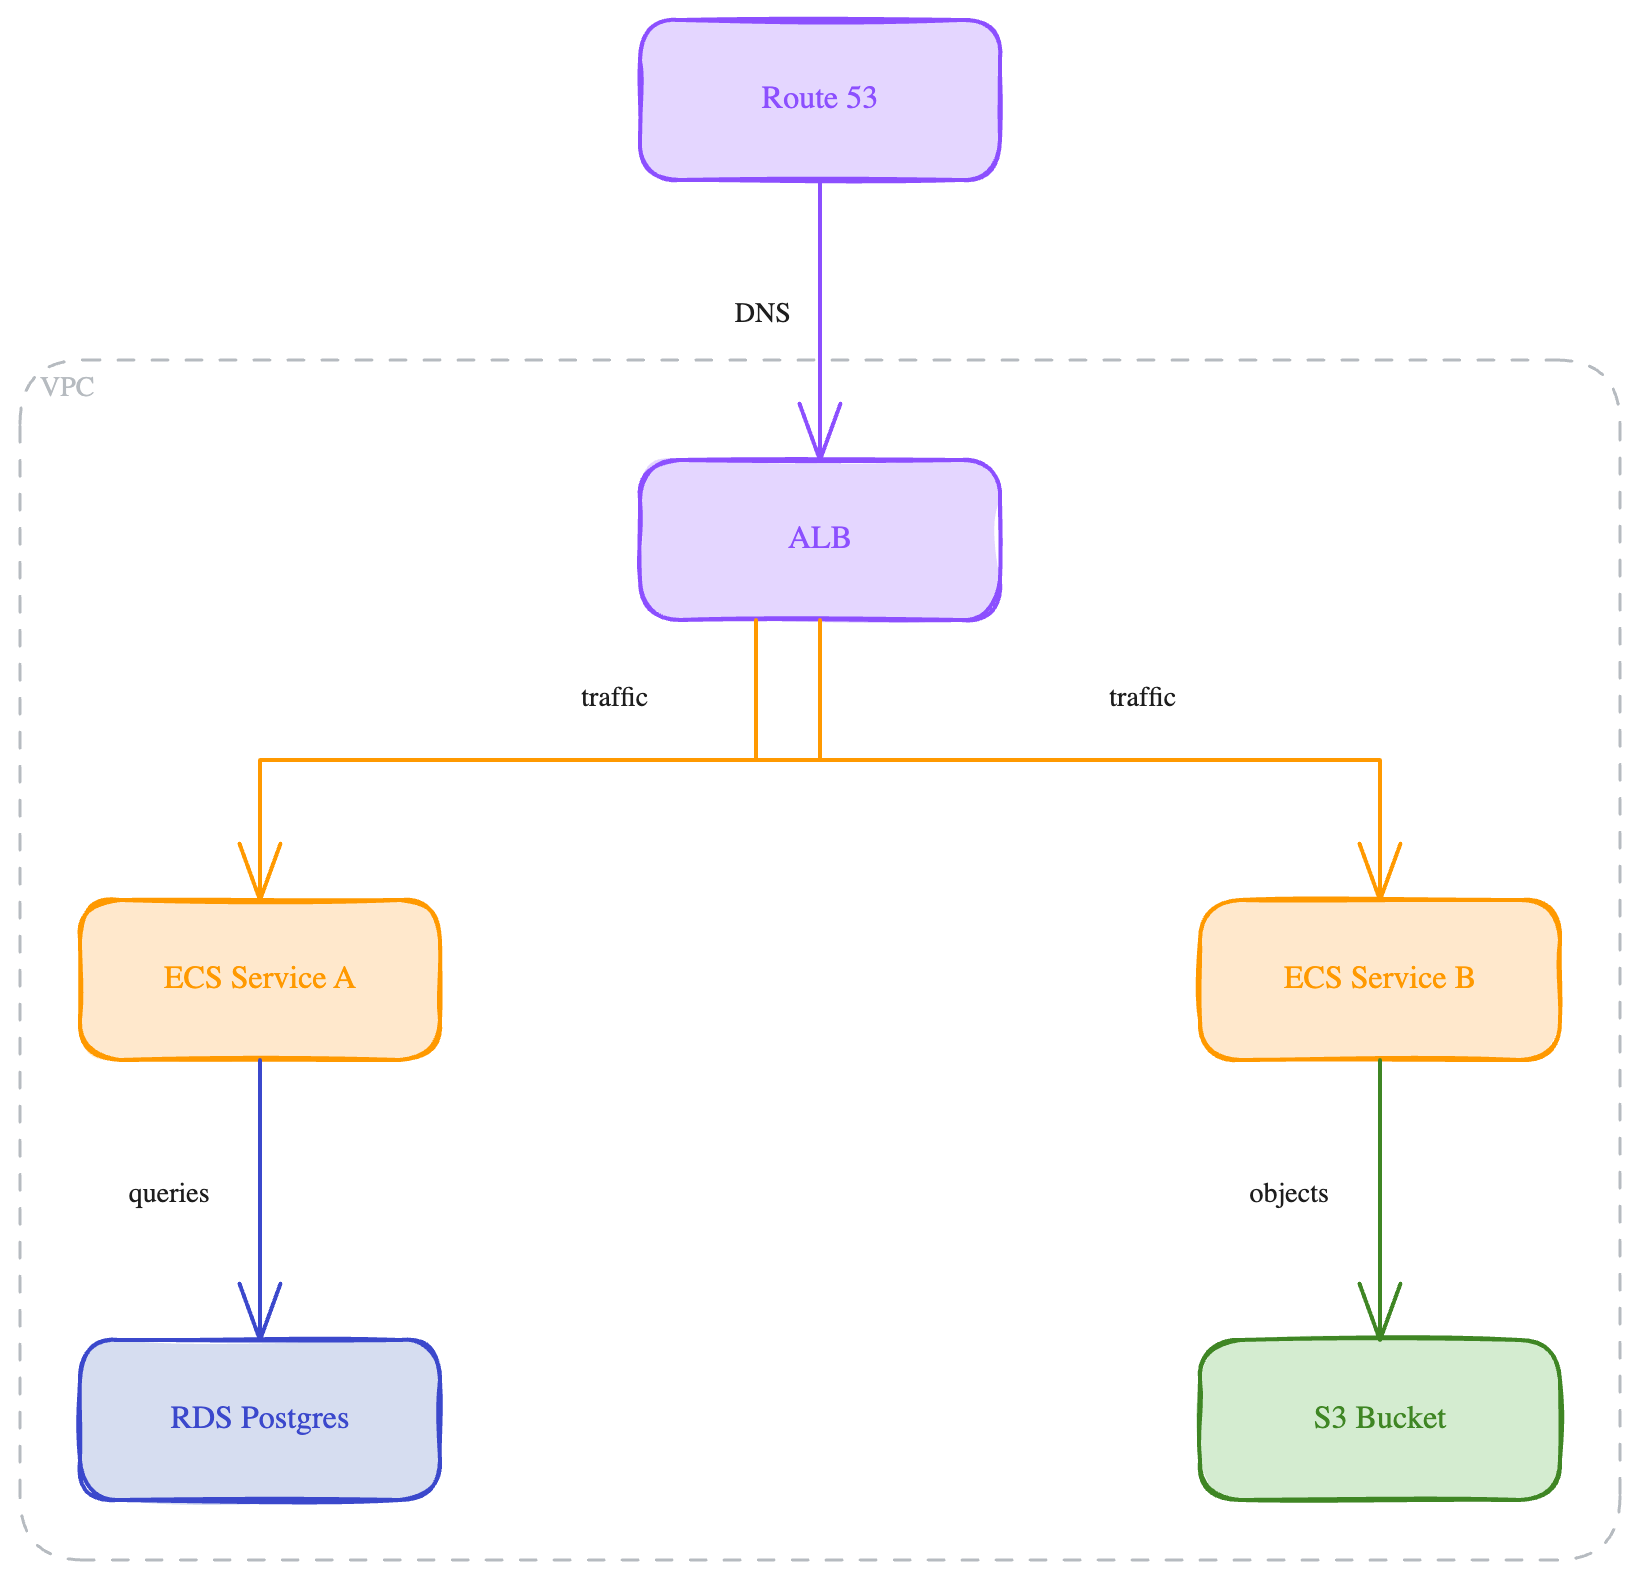
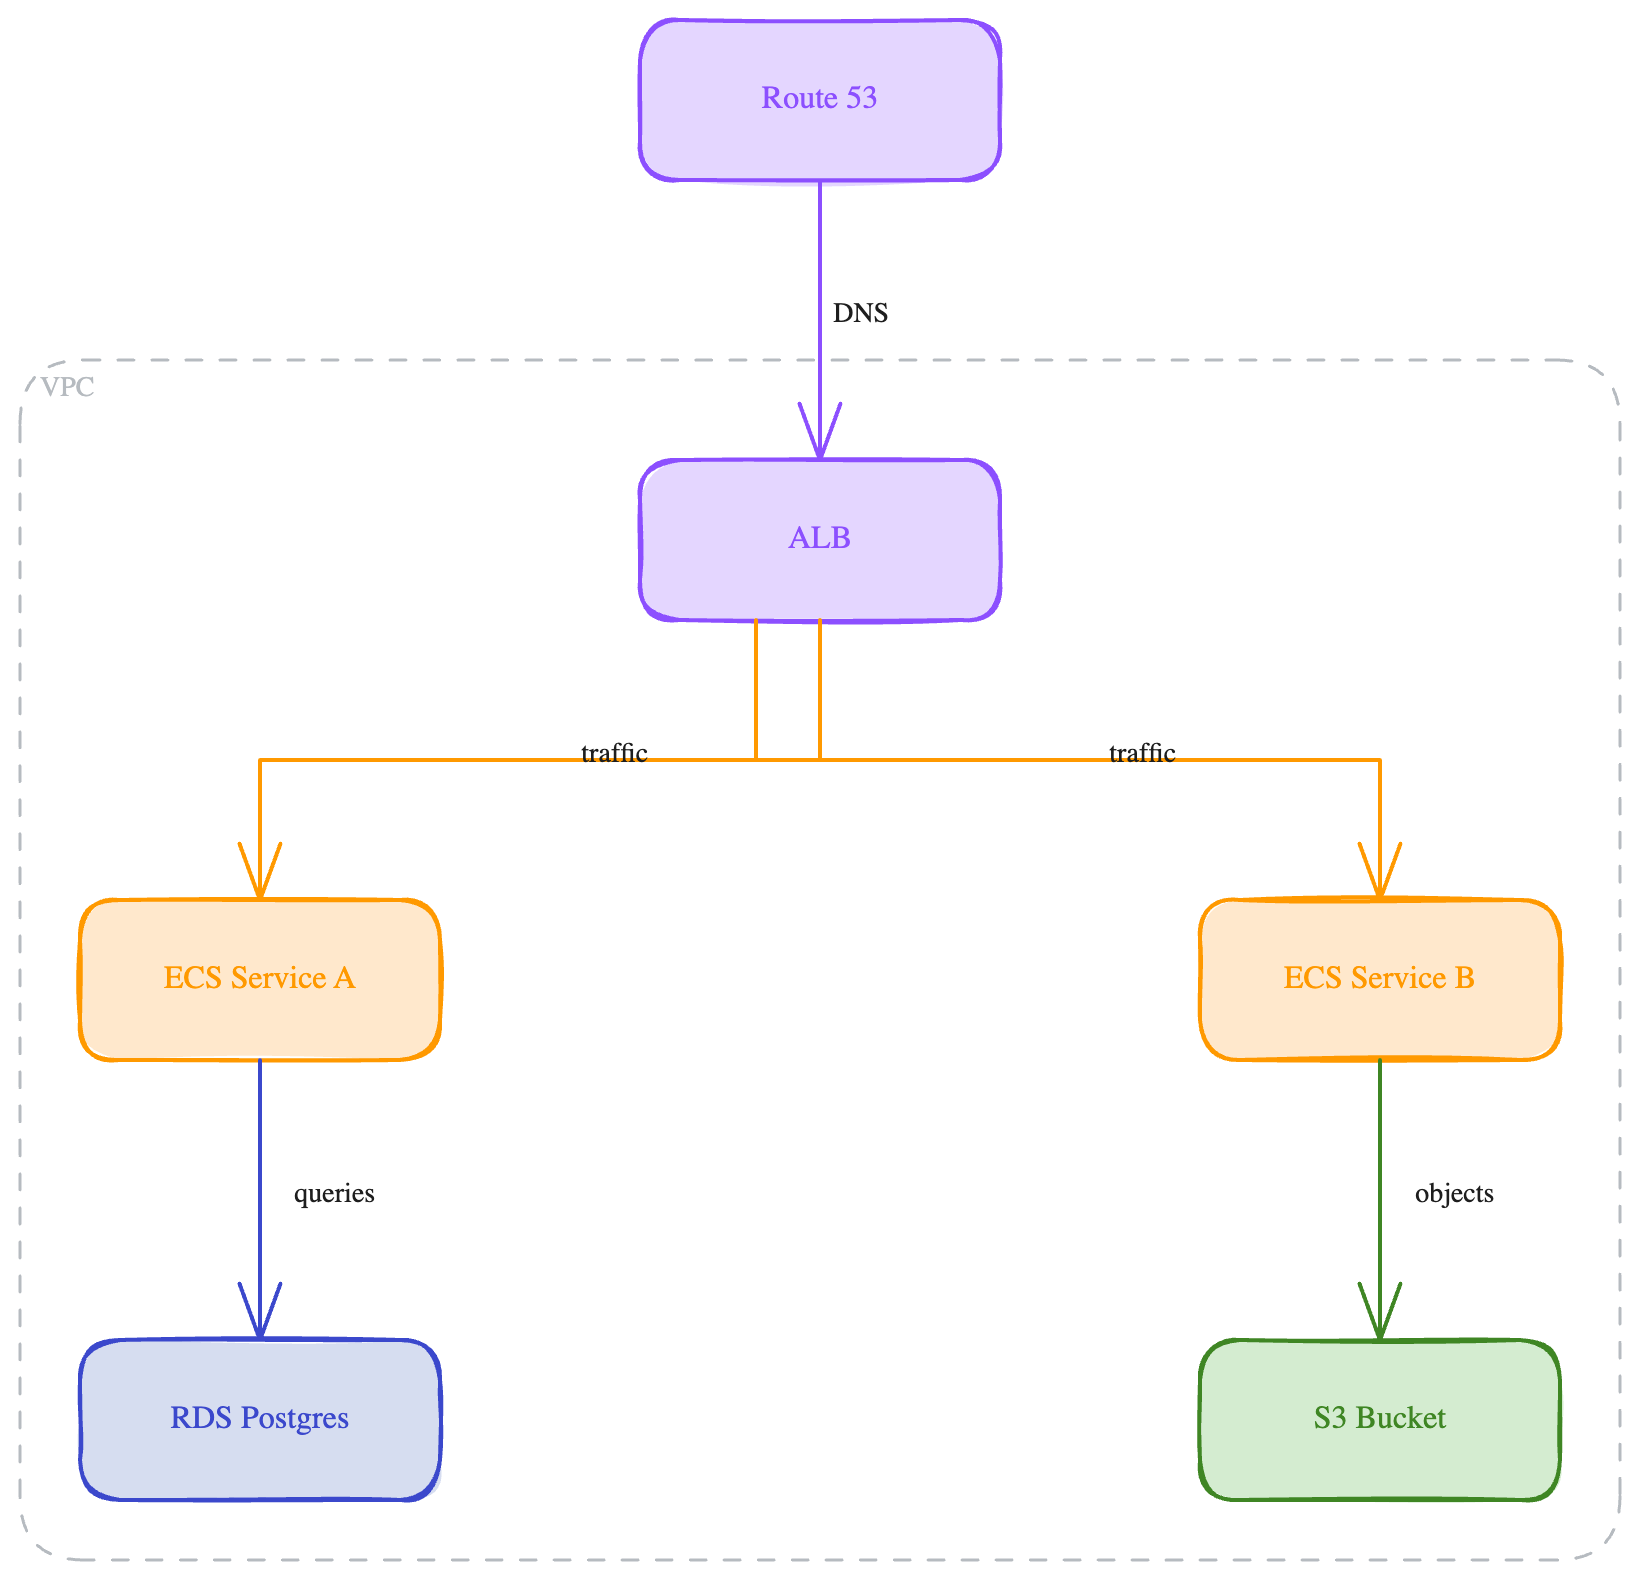
feat: unified overlap resolver with iteration budget
Replace the old 3-pass label-only collision avoidance with a unified
resolver that checks arrow labels against ALL element types:
- Other arrow labels (existing)
- Node shapes (NEW)
- Group boundaries — border strips only (NEW)
- Arrow segments — skips own arrow to avoid false positives (NEW)

Iterates until stable or budget (10 iterations) exhausted.
Offsets: 16 candidates (small nudge, medium, diagonal, large).

Also adds node overlap resolution for the grid fallback layout:
nudges nodes sharing the same cell apart by COL_SPACING.

Tests: 2 new tests (label-vs-node, grid overlap nudging).
Visual regression baseline updated for new label positions.

diff --git a/src/sdk.ts b/src/sdk.ts
@@ -193,6 +193,171 @@ function computeBounds(points: number[][]): { minX: number; minY: number; maxX: 
   return { minX, minY, maxX, maxY };
 }
 
+/** AABB overlap check with optional padding */
+function rectsOverlap(
+  ax: number, ay: number, aw: number, ah: number,
+  bx: number, by: number, bw: number, bh: number,
+  pad = 0,
+): boolean {
+  return ax - pad < bx + bw && ax + aw + pad > bx &&
+         ay - pad < by + bh && ay + ah + pad > by;
+}
+
+type Rect = { x: number; y: number; width: number; height: number };
+
+/**
+ * Resolve overlapping arrow labels against all static elements.
+ * Iterates until no label moves or budget is exhausted.
+ *
+ * Checks labels against: other labels, node shapes, group boundaries, arrow segments.
+ */
+function resolveOverlaps(elements: ExcalidrawElement[], budget = 10): void {
+  // Moveable: arrow labels (free-standing text with "arrlbl_" prefix)
+  const labels = elements.filter(
+    el => el.type === "text" && el.id.startsWith("arrlbl_"),
+  );
+  if (labels.length === 0) return;
+
+  // Static obstacles: shapes (not groups, not group labels, not bound text)
+  const nodeRects: Rect[] = [];
+  for (const el of elements) {
+    if ((el.type === "rectangle" || el.type === "ellipse" || el.type === "diamond") &&
+        !el.id.startsWith("grp_") && !el.id.startsWith("frm_")) {
+      nodeRects.push(el);
+    }
+  }
+
+  // Group boundaries (dashed rectangles)
+  const groupRects: Rect[] = [];
+  for (const el of elements) {
+    if (el.id.startsWith("grp_") && !el.id.endsWith("-label")) {
+      groupRects.push(el);
+    }
+  }
+
+  // Arrow segments, tagged with their label ID so we can skip self-overlap
+  const arrowSegs: { x1: number; y1: number; x2: number; y2: number; labelId?: string }[] = [];
+  for (const el of elements) {
+    if (el.type === "arrow" && el.points && el.points.length >= 2) {
+      const labelId = (el.customData as Record<string, unknown> | undefined)?._labelId as string | undefined;
+      for (let s = 0; s < el.points.length - 1; s++) {
+        arrowSegs.push({
+          x1: el.x + el.points[s][0], y1: el.y + el.points[s][1],
+          x2: el.x + el.points[s + 1][0], y2: el.y + el.points[s + 1][1],
+          labelId,
+        });
+      }
+    }
+  }
+
+  // Check if a label rect overlaps any obstacle (skip own arrow segments)
+  const hasCollision = (idx: number, lx: number, ly: number, lw: number, lh: number): boolean => {
+    const selfId = labels[idx].id;
+    // vs other labels
+    for (let j = 0; j < labels.length; j++) {
+      if (j === idx) continue;
+      const o = labels[j];
+      if (rectsOverlap(lx, ly, lw, lh, o.x, o.y, o.width, o.height)) return true;
+    }
+    // vs nodes
+    for (const n of nodeRects) {
+      if (rectsOverlap(lx, ly, lw, lh, n.x, n.y, n.width, n.height)) return true;
+    }
+    // vs group boundaries (only the border strip, not the interior)
+    for (const g of groupRects) {
+      const borderW = 4; // approximate stroke hit area
+      // top edge
+      if (rectsOverlap(lx, ly, lw, lh, g.x, g.y, g.width, borderW)) return true;
+      // bottom edge
+      if (rectsOverlap(lx, ly, lw, lh, g.x, g.y + g.height - borderW, g.width, borderW)) return true;
+      // left edge
+      if (rectsOverlap(lx, ly, lw, lh, g.x, g.y, borderW, g.height)) return true;
+      // right edge
+      if (rectsOverlap(lx, ly, lw, lh, g.x + g.width - borderW, g.y, borderW, g.height)) return true;
+    }
+    // vs arrow segments (AABB approximation) — skip own arrow
+    for (const seg of arrowSegs) {
+      if (seg.labelId === selfId) continue; // don't collide with own arrow
+      const sx = Math.min(seg.x1, seg.x2), sy = Math.min(seg.y1, seg.y2);
+      const sw = Math.abs(seg.x2 - seg.x1) || 2; // min 2px for vertical lines
+      const sh = Math.abs(seg.y2 - seg.y1) || 2; // min 2px for horizontal lines
+      if (rectsOverlap(lx, ly, lw, lh, sx, sy, sw, sh)) return true;
+    }
+    return false;
+  };
+
+  // Shift offsets: small nudges first, then larger jumps in 8 directions
+  const makeOffsets = (w: number, h: number) => [
+    // Small nudges (just clear the overlap)
+    { dx: 0, dy: -(h + 4) },
+    { dx: 0, dy: h + 4 },
+    { dx: -(w / 2 + 4), dy: 0 },
+    { dx: w / 2 + 4, dy: 0 },
+    // Medium shifts
+    { dx: 0, dy: -(h + 10) },
+    { dx: 0, dy: h + 10 },
+    { dx: -(w + 6), dy: 0 },
+    { dx: w + 6, dy: 0 },
+    // Diagonal shifts
+    { dx: -(w + 6), dy: -(h + 6) },
+    { dx: w + 6, dy: -(h + 6) },
+    { dx: -(w + 6), dy: h + 6 },
+    { dx: w + 6, dy: h + 6 },
+    // Large shifts
+    { dx: 0, dy: -(h + 24) },
+    { dx: 0, dy: h + 24 },
+    { dx: -(w + 24), dy: 0 },
+    { dx: w + 24, dy: 0 },
+  ];
+
+  // Iterate until stable or budget exhausted
+  for (let iter = 0; iter < budget; iter++) {
+    let moved = false;
+    for (let i = 0; i < labels.length; i++) {
+      const cur = labels[i];
+      if (!hasCollision(i, cur.x, cur.y, cur.width, cur.height)) continue;
+
+      const offsets = makeOffsets(cur.width, cur.height);
+      for (const { dx, dy } of offsets) {
+        const nx = cur.x + dx, ny = cur.y + dy;
+        if (!hasCollision(i, nx, ny, cur.width, cur.height)) {
+          cur.x = nx;
+          cur.y = ny;
+          moved = true;
+          break;
+        }
+      }
+    }
+    if (!moved) break; // stable
+  }
+}
+
+/**
+ * Resolve overlapping nodes in the grid fallback layout.
+ * Nudges nodes that share the same cell to adjacent positions.
+ */
+function resolveNodeOverlaps(positioned: Map<string, { x?: number; y?: number; width: number; height: number }>, budget = 5): void {
+  const nodes = Array.from(positioned.values());
+  if (nodes.length < 2) return;
+
+  for (let iter = 0; iter < budget; iter++) {
+    let moved = false;
+    for (let i = 0; i < nodes.length; i++) {
+      const a = nodes[i];
+      const ax = a.x ?? 0, ay = a.y ?? 0;
+      for (let j = i + 1; j < nodes.length; j++) {
+        const b = nodes[j];
+        const bx = b.x ?? 0, by = b.y ?? 0;
+        if (!rectsOverlap(ax, ay, a.width, a.height, bx, by, b.width, b.height, 10)) continue;
+        // Nudge b to the right by one column spacing
+        b.x = (b.x ?? 0) + COL_SPACING;
+        moved = true;
+      }
+    }
+    if (!moved) break;
+  }
+}
+
 export class Diagram {
   private nodes = new Map<string, GraphNode>();
   private edges: GraphEdge[] = [];
@@ -1398,78 +1563,10 @@ export class Diagram {
       }
     }
 
-    // Arrow label collision avoidance: shift overlapping labels
-    // Labels are free-standing text (containerId=null), identified by "arrlbl_" prefix
-    const labelElements = elements.filter(
-      el => el.type === "text" && el.id.startsWith("arrlbl_"),
-    );
-
-    // Collect arrow segments for label-vs-arrow collision checks
-    const arrowSegments: { x1: number; y1: number; x2: number; y2: number }[] = [];
-    for (const el of elements) {
-      if (el.type === "arrow" && el.points && el.points.length >= 2) {
-        for (let s = 0; s < el.points.length - 1; s++) {
-          arrowSegments.push({
-            x1: el.x + el.points[s][0], y1: el.y + el.points[s][1],
-            x2: el.x + el.points[s + 1][0], y2: el.y + el.points[s + 1][1],
-          });
-        }
-      }
-    }
-
-    // Check if a rectangle overlaps any arrow segment (approximate: check if segment passes through rect)
-    const overlapsArrow = (lx: number, ly: number, lw: number, lh: number): boolean => {
-      for (const seg of arrowSegments) {
-        // Quick AABB check: does the segment's bounding box overlap the label rect?
-        const segMinX = Math.min(seg.x1, seg.x2), segMaxX = Math.max(seg.x1, seg.x2);
-        const segMinY = Math.min(seg.y1, seg.y2), segMaxY = Math.max(seg.y1, seg.y2);
-        if (segMaxX < lx || segMinX > lx + lw || segMaxY < ly || segMinY > ly + lh) continue;
-        // Segment passes through label bounding box — count as collision
-        return true;
-      }
-      return false;
-    };
-
-    // Check if a rectangle overlaps any other label
-    const overlapsLabel = (idx: number, lx: number, ly: number, lw: number, lh: number): boolean => {
-      for (let j = 0; j < labelElements.length; j++) {
-        if (j === idx) continue;
-        const other = labelElements[j];
-        if (lx < other.x + other.width && lx + lw > other.x &&
-            ly < other.y + other.height && ly + lh > other.y) {
-          return true;
-        }
-      }
-      return false;
-    };
-
-    // Multi-pass: shift labels that overlap other labels or arrows
-    for (let pass = 0; pass < 3; pass++) {
-      for (let i = 0; i < labelElements.length; i++) {
-        const cur = labelElements[i];
-        const curW = cur.width;
-        const curH = cur.height;
-        if (!overlapsLabel(i, cur.x, cur.y, curW, curH) && !overlapsArrow(cur.x, cur.y, curW, curH)) continue;
-
-        // Try shifting: above, below, left, right
-        const offsets = [
-          { dx: 0, dy: -(curH + 8) },   // above
-          { dx: 0, dy: curH + 8 },       // below
-          { dx: -(curW + 8), dy: 0 },    // left
-          { dx: curW + 8, dy: 0 },       // right
-          { dx: 0, dy: -(curH + 20) },   // further above
-          { dx: 0, dy: curH + 20 },      // further below
-        ];
-        for (const { dx, dy } of offsets) {
-          const nx = cur.x + dx, ny = cur.y + dy;
-          if (!overlapsLabel(i, nx, ny, curW, curH) && !overlapsArrow(nx, ny, curW, curH)) {
-            cur.x = nx;
-            cur.y = ny;
-            break;
-          }
-        }
-      }
-    }
+    // ── Unified overlap resolver ──
+    // Iterates until stable or budget exhausted. Arrow labels are moveable;
+    // they check against nodes, groups, other labels, and arrow segments.
+    resolveOverlaps(elements);
 
     // Groups: dashed rectangle around children + label
     // Use Graphviz cluster bounding boxes when available (guaranteed non-overlapping)
@@ -1828,9 +1925,11 @@ export class Diagram {
     const wasmResult = await this.layoutNodesWasm();
     if (wasmResult) return wasmResult;
 
-    // Fallback: TS grid layout
+    // Fallback: TS grid layout + overlap nudging
     warnings?.push("Graphviz layout unavailable; using grid fallback");
-    return { positioned: this.layoutNodesGrid() };
+    const positioned = this.layoutNodesGrid();
+    resolveNodeOverlaps(positioned);
+    return { positioned };
   }
 
   private async layoutNodesWasm(): Promise<{ positioned: Map<string, PositionedNode>; edgeRoutes: Map<string, EdgeRoute>; groupBounds?: GroupBounds[] } | null> {

diff --git a/src/sdk.test.ts b/src/sdk.test.ts
@@ -1496,6 +1496,48 @@ A[Start]-->B[End]`);
       expect(textEl!.text).toBe(label);
     });
 
+    it("arrow labels do not overlap nodes", async () => {
+      const d = new Diagram();
+      const a = d.addBox("A", { row: 0, col: 0 });
+      const b = d.addBox("B", { row: 0, col: 1 });
+      const c = d.addBox("C", { row: 1, col: 0 });
+      const e = d.addBox("D", { row: 1, col: 1 });
+      d.connect(a, b, "right");
+      d.connect(a, c, "down");
+      d.connect(a, e, "diagonal");
+      d.connect(b, c, "cross");
+
+      const result = await d.render({ format: "excalidraw" });
+      const els = result.json.elements;
+      const labels = els.filter((el: any) => el.type === "text" && el.id.startsWith("arrlbl_"));
+      const nodes = els.filter((el: any) =>
+        (el.type === "rectangle" || el.type === "ellipse" || el.type === "diamond") &&
+        !el.id.startsWith("grp_"),
+      );
+
+      for (const lbl of labels) {
+        for (const node of nodes) {
+          const overlaps =
+            lbl.x < node.x + node.width && lbl.x + lbl.width > node.x &&
+            lbl.y < node.y + node.height && lbl.y + lbl.height > node.y;
+          expect(overlaps, `Label "${lbl.text}" overlaps node at (${node.x},${node.y})`).toBe(false);
+        }
+      }
+    });
+
+    it("grid fallback nudges overlapping nodes apart", async () => {
+      const d = new Diagram();
+      d.addBox("A", { row: 0, col: 0 });
+      d.addBox("B", { row: 0, col: 0 });
+      const result = await d.render({ format: "excalidraw" });
+      const rects = result.json.elements.filter((e: any) => e.type === "rectangle");
+      expect(rects.length).toBe(2);
+      if (!isWasmLoaded()) {
+        const samePos = rects[0].x === rects[1].x && rects[0].y === rects[1].y;
+        expect(samePos).toBe(false);
+      }
+    });
+
     it("all arrowhead types wire through", async () => {
       const arrowheadTypes = [null, "arrow", "bar", "dot", "triangle", "diamond", "diamond_outline"] as const;
 
